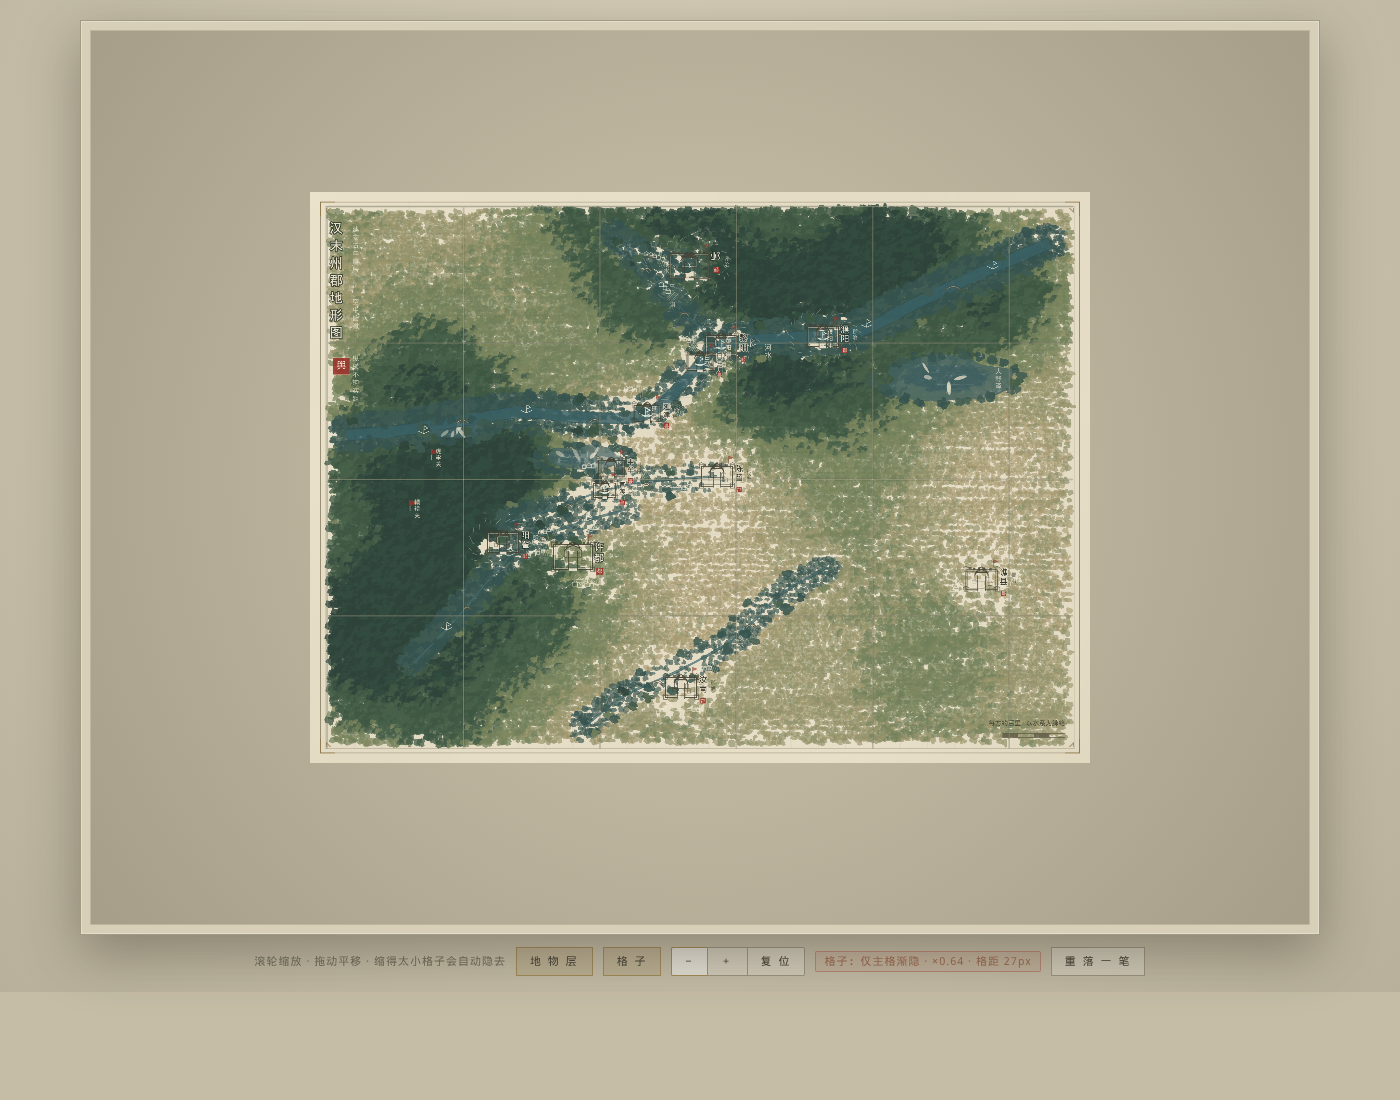
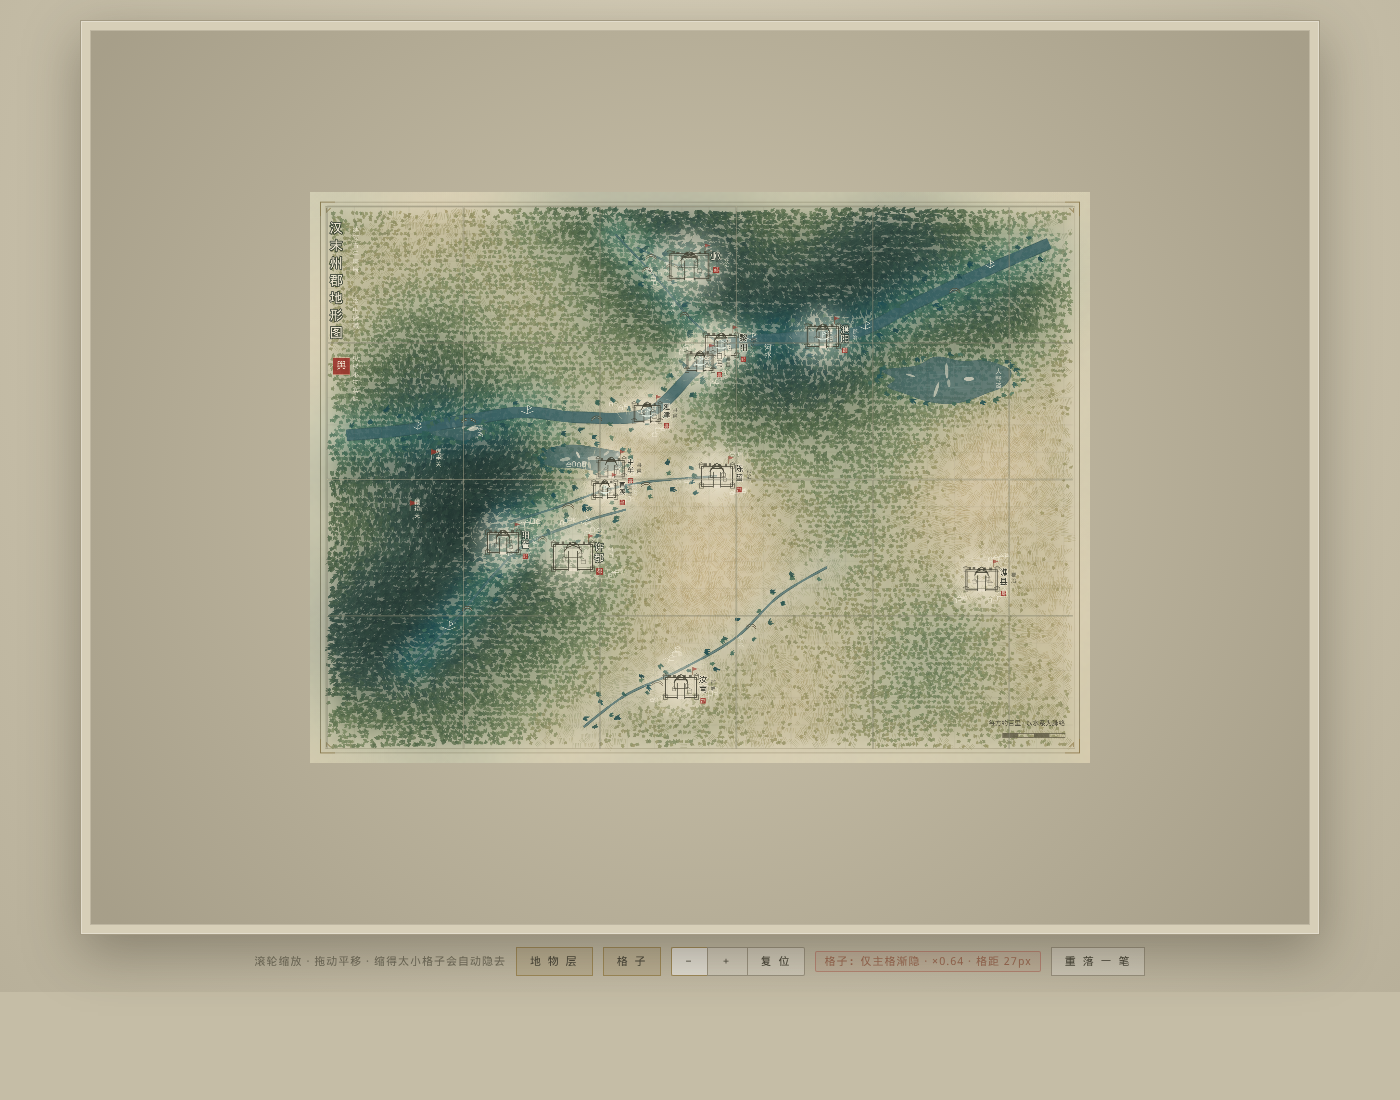
style(demos): 从色片平铺改成笔 —— 连续色阶、变宽短笔、田畴另起笔法
大版本号保持 0：只改 demos/ 下 4 个文件，不动 package.json version、
主 README 标题、index.html 的 ?v= 缓存指纹，也不新增版本章节。

上一轮放大到 x3 读成一片可辨的小色片（点彩感）。两个根因：
色板是 7 档 if 切换的离散色片，每个树冠团是闭合五边形。
本轮换生成语法，不靠加噪点或调色：

- CANOPY 锚点间线性插值的连续色阶；湿度/受光/树种只做连续小幅偏移，
  色相没有台阶。抽出 canopyRGB 供底罩与笔共用（palette 转 hex 供 rgba 工具）。
- brush() 变宽短笔：根部聚一点、起粗收尖的一次运笔，一簇合成一条 path
  一次 fill，不再是小色片。
- windAt() 由连续场梯度给主风势 + 扇形展开；加中频项让相邻区域笔势
  连续渐变，避免全图同向读成纹样平铺。
- 针叶/阔叶/灌丛按场值连续混合，不分档切换。
- fieldTuft()：低场改用成组平行田埂细笔，行向由连续角场给并带中频换向。
  浅田不再是「浅色小树冠」，地貌换成另一套视觉语法。
- 低场/高场用概率连续混合分流，无硬阈值，过渡带是散的。
- 密度随场值走：深林几乎不留缝，浅田露出淡赭底罩，不再全域一个密度。

补工笔第一道工序 fieldWash()：把场图写成 FW x FH 的 ImageData 再放大绘制，
得到完全连续、无台阶无重复单元的底罩。笔改细后白底曾从缝里回到 45%，
先罩底色再叠笔后：纯背景 7.6% / 完整图 8.2%，近纯白 0.14% / 0.37%。
这正是「可以铺一点点类似地形的背景，但不要全铺，留一丢丢白」。

配色拉开冷暖：低场赭黄、深林墨青、湿林花青；城外清场半径收窄到 c.r*.48，
修掉几座城叠成一大片纯纸白（挖洞感）。城郭加柔边托光，中部叠城不再糊。

验证：x1/x0.64/x3.4 三态渲染无 console/pageerror；露纸 7.6%/8.2%；
首渲染约 3.4s（只在重落一笔时付），切层 127ms；格网 LOD 行为不变。

不接入 src/，不动策略层 / 存档 / main.css。

Changed region(s): [[0.215, 0.1545, 0.7986, 0.7109]]

diff --git a/demos/官渡舆图笔势重绘.html b/demos/官渡舆图笔势重绘.html
@@ -205,8 +205,10 @@
       // 城外清场：只留一圈紧凑的浅田，范围别摊开成大片空场
       let o=0;
       for(const c of CITY_PTS){
-        const g=Math.exp(-((x-c.x)**2+(y-c.y)**2)/(2*(c.r*.62)**2));
-        o=Math.max(o,g); e-=.22*g;
+        // 清场只给紧凑一圈浅田；上一版 sigma 偏大，几座城叠起来在中部
+        // 连成一大片纯纸白，读成"挖了个洞"而不是"城外开阔地"。
+        const g=Math.exp(-((x-c.x)**2+(y-c.y)**2)/(2*(c.r*.48)**2));
+        o=Math.max(o,g); e-=.16*g;
       }
       // 图廓内侧渐疏，留一丢丢纸
       const edge=Math.min(x-24,W-24-x,y-24,H-24-y);
@@ -321,41 +323,146 @@
     ctx.restore();
   }
 
-  // ── 林冠色：由场值、湿度、受光连续给出 ────────────────────────────────
-  // 深林墨青 → 中林汁绿 → 灌丛橄榄 → 草甸赭黄 → 城外浅田近纸色。
-  function palette(e,w,lit){
-    const q=h1(Math.floor(e*97)+Math.floor(w*31)+Math.floor(lit*17));
-    if(w>.62) return q>.5?'#36534f':'#3f5b52';           // 湿林
-    if(e>.74) return lit>.55?(q>.5?'#566a48':'#4a6042'):(q>.5?'#334c40':'#2f443b');
-    if(e>.58) return lit>.55?(q>.5?'#66784f':'#5b6d48'):(q>.5?'#3e5743':'#476049');
-    if(e>.42) return q>.5?'#71805a':'#7c865e';
-    if(e>.28) return q>.5?'#8d8f68':'#99946b';
-    if(e>.16) return q>.5?'#9f936a':'#a89b71';
-    return q>.5?'#ada073':'#b6a87c';                      // 浅田：浅，但仍是笔不是纸
+  // ── 林冠色：连续色阶，不是离散色片 ────────────────────────────────────
+  // 上一版用一串 if 把场值切成 7 档、每档两个随机色，放大后就是一片片
+  // 边界清晰的同色块 —— 那本身就是"色块平铺"。改成锚点间线性插值，
+  // 湿度/受光/树种只做连续小幅偏移，色相没有台阶，笔与笔之间也没有色界。
+  const CANOPY = [
+    [0.00,[186,160,110]],  // 浅田赭黄（仍是笔色，不是纸白）
+    [0.16,[172,150,103]],
+    [0.30,[142,138, 96]],
+    [0.46,[108,126, 92]],
+    [0.62,[ 72, 96, 72]],
+    [0.80,[ 48, 74, 70]],
+    [1.00,[ 34, 56, 56]],  // 深林墨青
+  ];
+  function canopyRGB(e,w,lit,sp){
+    let i=0; while(i<CANOPY.length-2 && CANOPY[i+1][0]<e) i++;
+    const a=CANOPY[i], b=CANOPY[i+1];
+    const t=clamp((e-a[0])/(b[0]-a[0]||1),0,1);
+    let r=a[1][0]+(b[1][0]-a[1][0])*t,
+        g=a[1][1]+(b[1][1]-a[1][1])*t,
+        bb=a[1][2]+(b[1][2]-a[1][2])*t;
+    // 湿度往花青偏，受光往赭黄提，都是连续的，不做阈值切换
+    r-=w*22; g+=w*2;  bb+=w*18;   // 湿林往花青偏，与赭黄田拉开冷暖
+    r+=lit*9; g+=lit*7; bb-=lit*5;
+    // 树种微扰：只在同一色阶内轻微摆动，不再二选一换整块色
+    const q=(sp||0)*2-1;
+    return [r+q*4, g+q*5, bb+q*3];
+  }
+  function palette(e,w,lit,sp){
+    const [r,g,bb]=canopyRGB(e,w,lit,sp);
+    const hx=v=>clamp(Math.round(v),0,255).toString(16).padStart(2,'0');
+    return `#${hx(r)}${hx(g)}${hx(bb)}`;   // rgba() 工具只认 hex
   }
 
-  // ── 一个树冠团：当场按场值画 2~5 个方硬短笔 ──────────────────────────
-  // 没有图章函数：团的大小、笔数、朝向、色全由 (x,y) 的场值与传入的 carry
-  // 连续决定，相邻团共享 carry，所以不是复制粘贴。
+  // 风势：整片林冠的笔都顺场梯度的法向摆，而不是各自随机。
+  // 画面里仍然没有"山"，但笔势会顺着脊轴与沟谷走，山势因此被读出来。
+  // 加一层中频项，让相邻区域的笔势连续渐变 —— 否则全图同向，会读成
+  // 另一种纹样平铺（上一版放大后像"撒了一层竹叶"就是栽在这儿）。
+  function windAt(x,y){
+    const [gx,gy]=grad(x,y);
+    return Math.atan2(-gx,gy+1e-6)*.22
+         + Math.sin(x*.0042+y*.0031+seed*.000013)*.34
+         + Math.sin(x*.011-y*.008+1.7)*.26;
+  }
+
+  // ── 连续场薄罩：工笔的「先罩底色，再叠笔」 ────────────────────────────
+  // 笔改细之后必然留缝，白底会从缝里大面积回到画面（实测露纸 45%）。
+  // 这不是把纸盖住，而是按地理铺一层连续底色：深林处罩得沉、浅田处罩得淡、
+  // 沙洲与城外环几乎不罩 —— 白只从场值低的地方连续地漏一丢丢。
+  // 做法是把场图直接写成 FW×FH 的 ImageData 再放大绘制：浏览器双线性插值
+  // 得到完全连续、没有台阶也没有重复单元的一层，不是色块也不是渐变贴图。
+  function fieldWash(){
+    const small=document.createElement('canvas');
+    small.width=FW; small.height=FH;
+    const sc=small.getContext('2d');
+    const img=sc.createImageData(FW,FH);
+    for(let j=0;j<FH;j++) for(let i=0;i<FW;i++){
+      const k=j*FW+i, p=k*4;
+      const e=FIELD[k], ww=WET[k], o=OPEN[k];
+      const gx=(FIELD[k+(i<FW-1?1:0)]-FIELD[k-(i>0?1:0)])*.5;
+      const lit=clamp(.5-gx*9,0,1);
+      const [r,g,b]=canopyRGB(e,ww,lit,h1(i*.37+j*.61));
+      // 深林沉、浅田淡；即使留白意愿最高处也留一层极淡赭底，
+      // 白只从场值低的地方连续地漏一丢丢，不出现硬边空场。
+      const a=clamp((.20+e*.44+ww*.06)*(1-o*.60)+.07,0,.70);
+      img.data[p]=clamp(r,0,255); img.data[p+1]=clamp(g,0,255);
+      img.data[p+2]=clamp(b,0,255); img.data[p+3]=a*255;
+    }
+    sc.putImageData(img,0,0);
+    ctx.save();
+    ctx.imageSmoothingEnabled=true;
+    ctx.imageSmoothingQuality='high';
+    ctx.drawImage(small,0,0,W,H);   // 低分辨率场 → 全幅，连续无台阶
+    ctx.restore();
+  }
+
+  // 变宽短笔：起粗收尖的一次运笔，顶点累积进调用方的 path，
+  // 不新建 Path2D、不逐笔 fill —— 上万团仍能一次 fill 完成。
+  function brush(path,x0,y0,x1,y1,w0,w1){
+    const dx=x1-x0, dy=y1-y0, L=Math.hypot(dx,dy)||1;
+    const nx=-dy/L, ny=dx/L;
+    path.moveTo(x0+nx*w0, y0+ny*w0);
+    path.lineTo(x0-nx*w0, y0-ny*w0);
+    path.lineTo(x1-nx*w1, y1-ny*w1);
+    path.lineTo(x1+nx*w1, y1+ny*w1);
+    path.closePath();
+  }
+
+  // ── 一个树冠团：顺场风势的一次运笔，不是方硬色片 ─────────────────────
+  // 放大到 ×3 后点彩感的根源有两个：色板是离散档（已改连续插值），团是
+  // 一个闭合五边形（像小色片）。这里换成「根部聚一点、起粗收尖」的变宽短笔，
+  // 笔向由连续场梯度给的主风势 + 扇形展开，三套笔型按场值连续混合而不是
+  // 分档切换：深林针叶细长收尖、中场阔叶短粗成簇、浅田灌丛横走扁平。
+  // 没有图章函数：笔数/长度/宽度/色/朝向全由 (x,y) 的场值与 carry 连续决定。
   function tuft(x,y,e,w,carry){
     const lit=clamp(.5-grad(x,y)[1]*2.2,0,1);
-    const col=palette(e,w,lit);
-    const s=2.9+e*4.1+rr(-.4,.6);
-    const n=3+Math.floor(e*3+rnd()*1.6);
-    ctx.fillStyle=rgba(col,clamp(.52+e*.40+(w*.08),.52,.96));
-    // 一个团的所有短笔合成一条路径、一次 fill：既快，又让笔与笔之间没有
-    // 叠色接缝，读成「一片树冠」而不是几个小方块。
+    const sp=h1(x*.071+y*.093+seed*.000017);
+    const col=palette(e,w,lit,sp);
+    const wind=windAt(x,y);
+    const needle=smooth(.44,.74,e);        // 高场：针叶多，夹角小、笔更长
+    const shrub =1-smooth(.14,.40,e);      // 低场：灌丛多，横走、笔更扁
+    const s=2.5+e*3.6+rr(-.3,.5);
+    const n=4+Math.floor(e*2+rnd()*2);
+    ctx.fillStyle=rgba(col,clamp(.62+e*.32+w*.05,.62,.97));
     ctx.beginPath();
     for(let k=0;k<n;k++){
-      const a=carry*.28+rr(-.7,.7)+k*.9;
-      const ox=Math.cos(a)*s*rr(.2,1.0), oy=Math.sin(a)*s*rr(.2,.9);
-      const px=x+ox, py=y+oy, u=s*rr(.5,1.15), v=s*rr(.45,.95);
-      ctx.moveTo(px-u,py+v*.35);
-      ctx.lineTo(px-u*.55,py-v);
-      ctx.lineTo(px+u*.7,py-v*.75);
-      ctx.lineTo(px+u,py+v*.5);
-      ctx.lineTo(px-u*.2,py+v);
-      ctx.closePath();
+      const spread=(k-(n-1)/2)/Math.max(1,n-1);
+      const fan=spread*(1.55-needle*.72+shrub*.60)+rr(-.34,.34);
+      const a=wind+fan+carry*.10;
+      // 根部聚在一处，笔尖向外 —— 一簇像从同一个点长出来
+      const x0=x+rr(-s*.30,s*.30), y0=y+rr(-s*.30,s*.30);
+      const len=s*rr(.72,1.18)*(1+needle*.30)*(1-shrub*.22);
+      const w0=rr(1.55,2.65)*(1+shrub*.30)*(1-needle*.14);
+      brush(ctx,x0,y0,x0+Math.cos(a)*len,y0+Math.sin(a)*len,w0,w0*rr(.10,.30));
+    }
+    ctx.fill();                            // 一簇一次 fill，笔间无叠色接缝
+  }
+
+  // ── 田畴笔：低场区不是"浅色的小树冠"，是成组平行的细短笔 ────────────
+  // 古舆图城外开阔地用田埂短笔，不用林冠团。笔更细、更长、同向成组，
+  // 行向由一个低频连续角场给（不是每处随机）。若低场也一律画 tuft，
+  // 整幅就变成一张同质感花纹壁纸 —— 地貌必须换语法，不只是换颜色。
+  function fieldTuft(x,y,e,w,carry){
+    const lit=clamp(.5-grad(x,y)[1]*2.2,0,1);
+    const col=palette(e,w,lit,h1(x*.071+y*.093+seed*.000017));
+    // 中频项让相邻田块顺地势换向，而不是整片同向排成苇席斜纹；
+    // 仍是连续角场，没有把画面切成规整方格。
+    const rowA=windAt(x,y)+Math.PI/2
+             + Math.sin(x*.006+y*.004)*.28
+             + Math.sin(x*.019-y*.013+2.3)*.55
+             + Math.cos(x*.014+y*.021+.8)*.32
+             + carry*.06;
+    const n=3+Math.floor(rnd()*3);
+    const L=rr(6,13)*(1-w*.30);
+    ctx.fillStyle=rgba(col,clamp(.30+e*.30,.30,.60));
+    ctx.beginPath();
+    for(let k=0;k<n;k++){
+      const off=(k-(n-1)/2)*rr(1.9,2.7);
+      const ca=Math.cos(rowA), sa=Math.sin(rowA);
+      const x0=x-ca*L*.30-sa*off, y0=y-sa*L*.30+ca*off;
+      brush(ctx,x0,y0,x0+ca*L,y0+sa*L,rr(.42,.72),rr(.10,.24));
     }
     ctx.fill();
   }
@@ -379,20 +486,26 @@
         const e=field(x,rowY), w=wetness(x,rowY), o=openness(x,rowY);
         // 覆盖率：低场区也要铺（草甸/浅田），只是色浅、笔疏；只有城外环、
         // 沙洲、图廓内侧才真正漏纸。
-        const dens=clamp(.90+e*.10-w*.04-o*.44,.20,.99);
-        const step=clamp(6.3-e*1.7,4.3,6.6);
+        // 深林几乎不留缝，浅田笔组之间露出淡赭底罩 —— 密度也随场值走，
+        // 不再全域一个密度，避免整幅读成同一张花纹。
+        const dens=clamp(.54+e*.44-w*.04-o*.20,.26,.99);
+        const step=clamp(5.7-e*1.4,4.0,6.0);
         const yy=rowY+Math.sin(x*.013+rowIdx*.7)*2.1+carry*.34
                  +rowSkew*(x-W/2)*.02;
-        if(rnd()<dens && rnd()>o*.30){
+        if(rnd()<dens && rnd()>o*.20){
           const nx=x+rr(-1.6,1.6), ny=yy+rr(-1.4,1.4);
-          tuft(nx,ny,clamp(field(nx,ny)+rr(-.05,.05),0,1),
-               wetness(nx,ny),carry+rowIdx*.3);
+          const ee=clamp(field(nx,ny)+rr(-.05,.05),0,1);
+          const ww=wetness(nx,ny);
+          // 概率连续混合，不做硬阈值切换：过渡带是散的，不会出现一条分界
+          const fieldness=1-smooth(.22,.40,ee);
+          if(rnd()<fieldness) fieldTuft(nx,ny,ee,ww,carry);
+          else                tuft(nx,ny,ee,ww,carry+rowIdx*.3);
         }
         carry=clamp(carry+rr(-.5,.5),-2.2,2.2);
         x+=step;
       }
       // 行距由这一行平均场强给：深林略挤，开阔地略疏，但都不超过 8px
-      rowY+=clamp(7.9-field(W*.5,rowY)*2.1,5.4,8.4)+rr(-.5,.5);
+      rowY+=clamp(7.1-field(W*.5,rowY)*1.8,5.0,7.6)+rr(-.5,.5);
       rowIdx++;
     }
 
@@ -404,10 +517,10 @@
       let px=rr(30,W-30), py=t;
       while(px>26&&px<W-26&&py>26&&py<H-26){
         const e=field(px,py), w=wetness(px,py), o=openness(px,py);
-        if(e<.62&&e>.12&&rnd()<.30+e*.30-o*.42){
+        if(e<.64&&e>.26&&rnd()<.30+e*.30-o*.42){
           const L=rr(3,8)*(1+e*.5);
           hardRibbon(ctx,[[px,py],[px+ca*L,py+sa*L+carry*.3]],
-            {w:rr(.5,1.0),col:e>.4?'#6b7a55':'#9a9269',
+            {w:rr(.5,1.0),col:palette(e,w,.45,h1(px*.05+py*.07)),
              alpha:rr(.16,.32)*(1-o*.5),head:.10,tail:.42,sk:rr(0,99),seg:2});
         }
         carry=clamp(carry+rr(-.5,.5),-2,2);
@@ -423,10 +536,10 @@
       const L=rr(60,190);
       for(let s=0;s<L;s+=rr(5,9)){
         const e=field(x,y), o=openness(x,y);
-        if(e>.10&&rnd()<.62-o*.3){
+        if(e>.28&&rnd()<.62-o*.3){
           const l=rr(2.5,6.5)*(1+e*.4);
           hardRibbon(ctx,[[x,y],[x+Math.cos(a)*l,y+Math.sin(a)*l+carry*.2]],
-            {w:rr(.45,.85),col:e>.55?'#2f4a3c':e>.30?'#6b7a52':'#9b9269',
+            {w:rr(.45,.85),col:palette(e,wetness(x,y),.5,h1(x*.061+y*.083)),
              alpha:rr(.12,.26),head:.10,tail:.44,sk:rr(0,99),seg:2});
         }
         carry=clamp(carry+rr(-.4,.4),-2,2);
@@ -612,6 +725,15 @@
     const s=rank===1?30:rank===2?24:rank===3?20:17, h=s*.64;
     const L=x-s,R=x+s,T=y-h,B=y+h;
     ctx.save();
+    // 柔边托光：工笔的「托底」。中部官渡/中牟/陈留几座城叠得近，
+    // 细线在密笔背景上会糊成一团；一层渐隐的纸光让城浮出来，
+    // 但边缘是软的，不是之前那个实心浅田椭圆的贴纸感。
+    const cityGlow=ctx.createRadialGradient(x,y,s*.35,x,y,s*2.5);
+    cityGlow.addColorStop(0,'rgba(242,235,214,.46)');
+    cityGlow.addColorStop(.55,'rgba(242,235,214,.20)');
+    cityGlow.addColorStop(1,'rgba(242,235,214,0)');
+    ctx.fillStyle=cityGlow;
+    ctx.beginPath(); ctx.arc(x,y,s*2.5,0,Math.PI*2); ctx.fill();
     // 城外浅田环：用断续浅笔暗示，不填一个实心圆饼（贴纸感太重）。
     // 真正的过渡已由连续场的城外清场给出，这里只补一圈田埂短笔。
     const RX=s*2.45, RY=h*2.85;
@@ -809,7 +931,8 @@
     ctx.clearRect(0,0,W,H);
     paper(); border();
     buildField();
-    surfaceCover();
+    fieldWash();                         // 工笔第一道工序：先罩连续底色
+    surfaceCover();                      // 再叠顺场笔势的树冠短笔
     lakes();
     river(HUANGHE,8.6,'河水',true);
     for (const r of RIVERS_MINOR) river(r.pts,r.w,r.name,false);
